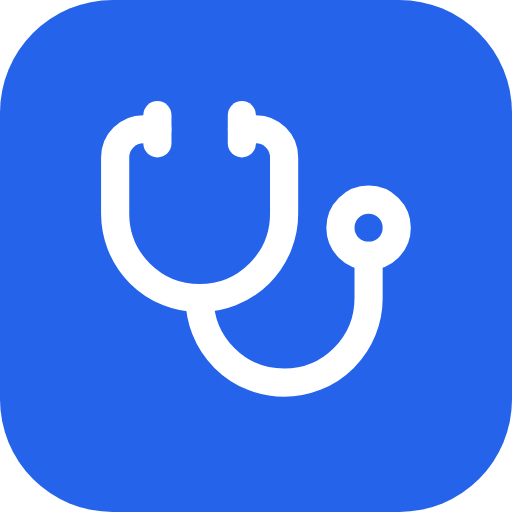
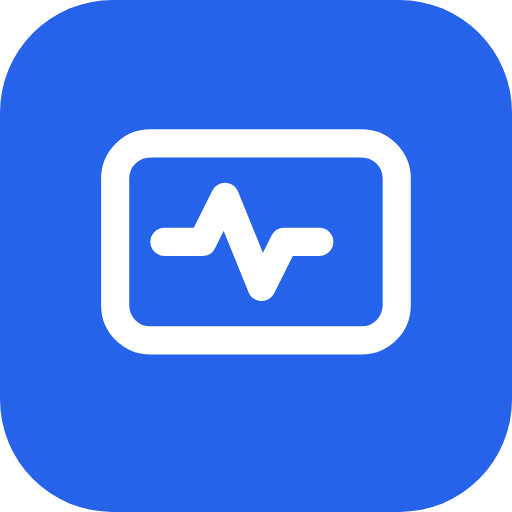
feat: rename the app to Biomedic and give it its own mark
"MediTrack" was the last English thing left in an otherwise Romanian app.
Biomedic is the word the people who keep this equipment alive already use —
"inginer biomedical", "serviciul biomedical" — so it needs no explaining in a
hospital.

The stethoscope went with it. It said "medicine", which is only half the
story: this app is about the machines, not the patients. The mark is now a
device screen with a pulse line across it, drawn from two shapes so it still
reads at 16px in a browser tab. It lives in one component used by the sidebar,
the login screen, the standalone device view and the loading screen, and the
PWA icons are generated from the same geometry.

Renamed everywhere it is read: tab title, manifest, exported workbooks and
their headers, the printable inventory report, QR label sheets, the scanner
captions and the SQL script headers.

Deliberately NOT renamed: the meditrack_* storage keys and the MediTrackDB
database name. Changing those would open a fresh, empty database on every
phone and sign everyone out — a rename is not worth losing the data over.

Claude-Session: https://claude.ai/code/session_01ApLve1RojwZeV1BmfyeSQ6

Changed region(s): [[0.1875, 0.1875, 0.8125, 0.7812]]

diff --git a/App.tsx b/App.tsx
@@ -1,6 +1,6 @@
 
 import React, { useState, useEffect, useMemo, useCallback, useRef, Suspense, lazy } from 'react';
-import { LayoutDashboard, List, Stethoscope, Menu, X, ShieldCheck, Loader2, CheckSquare, Settings as SettingsIcon, CalendarRange, RefreshCw, Cloud, CloudOff, Database, AlertCircle, Zap, QrCode, ScanLine, Wallet, Search, LogOut, User, Plus, Sun, Moon } from 'lucide-react';
+import { LayoutDashboard, List, Menu, X, ShieldCheck, Loader2, CheckSquare, Settings as SettingsIcon, CalendarRange, RefreshCw, Cloud, CloudOff, Database, AlertCircle, Zap, QrCode, ScanLine, Wallet, Search, LogOut, User, Plus, Sun, Moon } from 'lucide-react';
 
 const importDashboard = () => import('./components/Dashboard');
 const importDeviceList = () => import('./components/DeviceList');
@@ -55,6 +55,7 @@ import { getInitialTheme, applyTheme, Theme } from './services/themeService';
 import { mergeDeviceRecords, buildUploadSet } from './services/syncMerge';
 import { buildPath, uploadDataUrl } from './services/fileStorage';
 import LoginScreen from './components/LoginScreen';
+import { LogoTile, LogoMark } from './components/Logo';
 
 const VIEW_LABELS: Record<string, string> = {
   DASHBOARD: 'Panou',
@@ -936,10 +937,10 @@ const App: React.FC = () => {
             <div className="flex flex-col items-center justify-center h-full space-y-6 animate-fade-in">
               <div className="relative">
                  <div className="w-24 h-24 border-4 border-slate-100 border-t-blue-600 rounded-full animate-spin" />
-                 <Stethoscope className="w-8 h-8 text-blue-600 absolute top-1/2 left-1/2 -translate-x-1/2 -translate-y-1/2" />
+                 <LogoMark className="w-8 h-8 text-blue-600 absolute top-1/2 left-1/2 -translate-x-1/2 -translate-y-1/2" />
               </div>
               <div className="text-center">
-                <p className="text-xs font-black uppercase tracking-[0.2em] text-slate-900">MediTrack OS</p>
+                <p className="text-xs font-black uppercase tracking-[0.2em] text-slate-900">Biomedic</p>
                 <p className="text-[10px] font-bold text-slate-400 uppercase tracking-widest mt-2">Se initializeaza registrul...</p>
               </div>
             </div>
@@ -1107,11 +1108,9 @@ const AppSidebar = React.memo(({ isSidebarOpen, view, setView, setSidebarOpen, s
     <div className="h-full flex flex-col relative">
       <div className="absolute top-0 right-0 w-1 h-full bg-slate-50" />
       <div className="p-6 lg:p-8 flex items-center gap-4 border-b border-slate-100 bg-white">
-        <div className="bg-slate-900 p-2.5 rounded-xl shadow-xl shadow-slate-900/10 ring-1 ring-white/20 shrink-0">
-          <Stethoscope className="w-6 h-6 text-blue-400" />
-        </div>
+        <LogoTile className="p-2.5 rounded-xl shrink-0" />
         <div className="min-w-0">
-          <h1 className="text-lg font-black tracking-tight text-slate-900 uppercase leading-none">MediTrack</h1>
+          <h1 className="text-lg font-black tracking-tight text-slate-900 uppercase leading-none">Biomedic</h1>
           {/* The close button takes this room on phones, and the subtitle
               wrapped to two lines rather than fitting beside it */}
           <p className="hidden lg:block text-[10px] font-bold text-slate-400 uppercase tracking-[0.08em] leading-relaxed mt-1.5">Registru echipamente medicale</p>

diff --git a/components/DeviceList.tsx b/components/DeviceList.tsx
@@ -50,7 +50,7 @@ const listState = {
 const exportToExcel = async (devices: MedicalDevice[]) => {
   const ExcelJS = (await import('exceljs')).default;
   const wb = new ExcelJS.Workbook();
-  wb.creator = 'MediTrack';
+  wb.creator = 'Biomedic';
   wb.created = new Date();
 
   const TOTAL_COLS = 14;
@@ -88,7 +88,7 @@ const exportToExcel = async (devices: MedicalDevice[]) => {
   ];
 
   // Title row
-  const titleRow = ws.addRow(['MEDITRACK — RAPORT INVENTAR DISPOZITIVE', ...Array(TOTAL_COLS - 1).fill('')]);
+  const titleRow = ws.addRow(['BIOMEDIC — RAPORT INVENTAR DISPOZITIVE', ...Array(TOTAL_COLS - 1).fill('')]);
   ws.mergeCells(1, 1, 1, TOTAL_COLS);
   titleRow.height = 42;
   titleRow.getCell(1).style = {
@@ -259,7 +259,7 @@ const exportToExcel = async (devices: MedicalDevice[]) => {
     };
   };
 
-  addSectionTitle('MEDITRACK — SUMAR RAPORT');
+  addSectionTitle('BIOMEDIC — SUMAR RAPORT');
   wsSummary.addRow([]);
   addSummaryRow('Generat', new Date().toLocaleString());
   addSummaryRow('Total dispozitive', devices.length, true);
@@ -287,7 +287,7 @@ const exportToExcel = async (devices: MedicalDevice[]) => {
   const url = URL.createObjectURL(blob);
   const a = document.createElement('a');
   a.href = url;
-  a.download = `MediTrack_Report_${new Date().toISOString().split('T')[0]}.xlsx`;
+  a.download = `Biomedic_Raport_${new Date().toISOString().split('T')[0]}.xlsx`;
   a.click();
   URL.revokeObjectURL(url);
 };
@@ -314,7 +314,7 @@ const importFromExcel = (
       // Find the header row: look for a row containing "Device Name" (legacy) or "Denumire echipament"
       const headerRowIdx = rows.findIndex(r => r.some((c: any) => ['Device Name', 'Denumire echipament'].includes(String(c).trim())));
       if (headerRowIdx === -1) {
-        onDone([], { added: 0, updated: 0, skipped: 0, errors: ['Nu am gasit randul de antet. Asigurati-va ca importati un export Excel MediTrack.'] });
+        onDone([], { added: 0, updated: 0, skipped: 0, errors: ['Nu am gasit randul de antet. Asigurati-va ca importati un export Excel Biomedic.'] });
         return;
       }
 
@@ -426,7 +426,7 @@ const exportToPDF = (devices: MedicalDevice[]) => {
 <html lang="en">
 <head>
   <meta charset="UTF-8" />
-  <title>MediTrack - Raport Dispozitive</title>
+  <title>Biomedic - Raport Dispozitive</title>
   <style>
     * { box-sizing: border-box; margin: 0; padding: 0; }
     body { font-family: 'Helvetica Neue', Arial, sans-serif; font-size: 11px; color: #1e293b; background: #fff; padding: 24px; }
@@ -459,7 +459,7 @@ const exportToPDF = (devices: MedicalDevice[]) => {
 <body>
   <div class="header">
     <div class="header-left">
-      <h1>MediTrack &mdash; Raport Inventar Dispozitive</h1>
+      <h1>Biomedic &mdash; Raport Inventar Dispozitive</h1>
       <p>Sistem de management echipamente medicale &bull; Inginerie biomedicala</p>
     </div>
     <div class="header-right">
@@ -493,7 +493,7 @@ const exportToPDF = (devices: MedicalDevice[]) => {
   </table>
 
   <div class="footer">
-    <span>MediTrack &mdash; Registru Echipamente &mdash; Confidential</span>
+    <span>Biomedic &mdash; Registru Echipamente &mdash; Confidential</span>
     <span>Pagina <span class="pageNumber"></span></span>
   </div>
 

diff --git a/components/DeviceDetail.tsx b/components/DeviceDetail.tsx
@@ -5,10 +5,11 @@ import Portal from './Portal';
 import { saveFileAs } from '../services/fileService';
 import { buildPath, uploadDataUrl, uploadFile, removeFile, resolveSource } from '../services/fileStorage';
 import { getAppBaseUrl, getDeviceUrl } from '../services/appUrl';
+import { LogoTile } from './Logo';
 import {
   Activity, Box, QrCode, Trash2, X, Edit2, Plus, BookOpen,
   Info, CheckSquare, Loader2, Check, ChevronDown, Clock,
-  ShieldAlert, Cpu, Wrench, CheckCircle2, Fingerprint, Save, ArrowLeft, Camera, RotateCcw, FileText, Upload, DownloadCloud, Eye, Building2, Tag, Layers, Download, Stethoscope, Calendar, Printer, Wallet, ShieldCheck, Receipt
+  ShieldAlert, Cpu, Wrench, CheckCircle2, Fingerprint, Save, ArrowLeft, Camera, RotateCcw, FileText, Upload, DownloadCloud, Eye, Building2, Tag, Layers, Download, Calendar, Printer, Wallet, ShieldCheck, Receipt
 } from 'lucide-react';
 const LazyQRCode = React.lazy(() => import('qrcode.react').then(m => ({ default: m.QRCodeCanvas })));
 const CameraDocCapture = React.lazy(() => import('./CameraDocCapture'));
@@ -895,8 +896,8 @@ const DeviceDetail: React.FC<DeviceDetailProps> = ({ device, tasks, allDevices =
       {isStandalone && (
         <div className="p-6 sm:p-8 bg-slate-900 text-white flex flex-col items-center gap-4 text-center">
            <div className="flex items-center gap-3">
-              <div className="bg-blue-600 p-2 rounded-lg"><Stethoscope className="w-5 h-5 text-white" /></div>
-              <h1 className="text-lg font-black tracking-tight text-white uppercase">MediTrack</h1>
+              <LogoTile className="p-2 rounded-lg" markClassName="w-5 h-5" />
+              <h1 className="text-lg font-black tracking-tight text-white uppercase">Biomedic</h1>
            </div>
            <p className="text-xs text-slate-400 font-medium max-w-xs">
               Aceasta este o vizualizare individuala a dispozitivului. Pentru administrarea intregului parc de echipamente, accesati aplicatia principala.

diff --git a/components/LoginScreen.tsx b/components/LoginScreen.tsx
@@ -1,12 +1,13 @@
 
 import React, { useState, useCallback } from 'react';
-import { Stethoscope, Lock, Delete, Mail, KeyRound, Loader2, UserPlus, ArrowLeft, ShieldAlert, LogOut, Terminal, Copy, Check, X } from 'lucide-react';
+import { Lock, Delete, Mail, KeyRound, Loader2, UserPlus, ArrowLeft, ShieldAlert, LogOut, Terminal, Copy, Check, X } from 'lucide-react';
 import { AppUser } from '../types';
 import {
   signIn, signUp, signOut,
   hasDeviceLock, setDeviceLock, verifyDeviceLock,
 } from '../services/authService';
 import { SECURITY_SQL } from '../services/authSql';
+import { LogoTile } from './Logo';
 
 interface LoginScreenProps {
   onLogin: (user: AppUser) => void;
@@ -20,11 +21,9 @@ const Shell: React.FC<{ children: React.ReactNode }> = ({ children }) => (
   <div className="theme-static fixed inset-0 bg-slate-950 flex items-center justify-center p-4 z-[900] overflow-y-auto">
     <div className="w-full max-w-sm space-y-8 animate-slide-up py-8">
       <div className="flex flex-col items-center gap-4">
-        <div className="bg-blue-600 p-4 rounded-3xl shadow-2xl shadow-blue-600/30">
-          <Stethoscope className="w-10 h-10 text-white" />
-        </div>
+        <LogoTile className="p-4 rounded-3xl shadow-2xl shadow-blue-600/30" markClassName="w-10 h-10" />
         <div className="text-center">
-          <h1 className="text-2xl font-black tracking-tight text-white uppercase">MediTrack</h1>
+          <h1 className="text-2xl font-black tracking-tight text-white uppercase">Biomedic</h1>
           <p className="text-[11px] font-bold text-white/40 tracking-[0.2em] mt-1">Management echipamente medicale</p>
         </div>
       </div>

diff --git a/components/MaintenancePlanner.tsx b/components/MaintenancePlanner.tsx
@@ -174,7 +174,7 @@ const MaintenancePlanner: React.FC<MaintenancePlannerProps> = ({ devices, onAppl
 
     // 2. Construct Aesthetic AOA (Array of Arrays) with detailed summary
     const aoa = [
-      ['MEDITRACK - SISTEM DE MANAGEMENT AL DISPOZITIVELOR MEDICALE'],
+      ['BIOMEDIC - SISTEM DE MANAGEMENT AL DISPOZITIVELOR MEDICALE'],
       ['PROGRAM DE MENTENANTA SI SERVICE'],
       [''],
       ['SUMAR'],
@@ -190,7 +190,7 @@ const MaintenancePlanner: React.FC<MaintenancePlannerProps> = ({ devices, onAppl
       ['--- SFARSITUL RAPORTULUI DE SERVICE ---'],
       [''],
       ['NOTA DE CONFIDENTIALITATE: Acest document contine date despre dispozitive medicale. Accesul este restrictionat personalului autorizat.'],
-      ['MediTrack v2.5 | Date proprietare infrastructura clinica']
+      ['Biomedic | Date proprietare infrastructura clinica']
     ];
 
     try {
@@ -230,7 +230,7 @@ const MaintenancePlanner: React.FC<MaintenancePlannerProps> = ({ devices, onAppl
       XLSX.utils.book_append_sheet(workbook, worksheet, "Raport");
       
       const fileDate = now.toISOString().split('T')[0];
-      XLSX.writeFile(workbook, `MediTrack_Raport_Echipamente_${fileDate}.xlsx`);
+      XLSX.writeFile(workbook, `Biomedic_Raport_Echipamente_${fileDate}.xlsx`);
     } catch (err) {
       console.error("Export error:", err);
       alert("Generarea raportului a esuat. Verificati daca pop-up-urile sunt permise in browser.");

diff --git a/components/Logo.tsx b/components/Logo.tsx
@@ -1,0 +1,38 @@
+import React from 'react';
+
+/**
+ * The mark: a device screen with a pulse line across it.
+ *
+ * A stethoscope says "medicine", which is only half the story — this app is
+ * about the machines, not the patients. A monitor with a trace says "medical
+ * equipment, watched", which is exactly the job. Drawn from two shapes so it
+ * still reads at 16px in a browser tab.
+ */
+export const LogoMark: React.FC<{ className?: string }> = ({ className = 'w-6 h-6' }) => (
+  <svg
+    viewBox="0 0 24 24"
+    fill="none"
+    stroke="currentColor"
+    strokeWidth={2}
+    strokeLinecap="round"
+    strokeLinejoin="round"
+    className={className}
+    aria-hidden="true"
+  >
+    <rect x="2" y="4" width="20" height="14" rx="2.5" />
+    <path d="M5.5 11h2.7l1.6-3.2 2.6 6.4 1.6-3.2h2.5" />
+  </svg>
+);
+
+/** The mark in its blue tile, as it appears in the sidebar and on the login screen. */
+export const LogoTile: React.FC<{ className?: string; markClassName?: string }> = ({
+  className = 'p-2.5 rounded-xl',
+  markClassName = 'w-6 h-6',
+}) => (
+  <div className={`bg-blue-600 text-white shadow-xl shadow-blue-600/20 ${className}`}>
+    <LogoMark className={markClassName} />
+  </div>
+);
+
+export const APP_NAME = 'Biomedic';
+export const APP_TAGLINE = 'Registru echipamente medicale';

diff --git a/components/QRScanner.tsx b/components/QRScanner.tsx
@@ -97,7 +97,7 @@ const QRScanner: React.FC<QRScannerProps> = ({ onScan, onClose }) => {
           let id: string | null = null;
 
           try {
-            // Normal case: a MediTrack deep link
+            // Normal case: a Biomedic deep link
             const url = new URL(raw);
             id = url.searchParams.get('id');
           } catch {
@@ -140,7 +140,7 @@ const QRScanner: React.FC<QRScannerProps> = ({ onScan, onClose }) => {
           </div>
           <div>
             <p className="text-white font-black text-sm uppercase tracking-widest">Scaneaza QR Dispozitiv</p>
-            <p className="text-white/40 text-[10px] font-bold uppercase tracking-widest">MediTrack Scanner</p>
+            <p className="text-white/40 text-[10px] font-bold uppercase tracking-widest">Scanare Biomedic</p>
           </div>
         </div>
         <button onClick={() => { stopCamera(); onClose(); }} className="p-2.5 bg-white/10 hover:bg-white/20 text-white rounded-xl transition">

diff --git a/components/DocumentScanner.tsx b/components/DocumentScanner.tsx
@@ -453,7 +453,7 @@ const DocumentScanner: React.FC<DocumentScannerProps> = ({ devices, onSave, onCl
           <div className="p-2 bg-blue-600 rounded-xl"><ScanLine className="w-5 h-5 text-white" /></div>
           <div>
             <p className="text-white font-black text-sm uppercase tracking-widest">Scanner Documente</p>
-            <p className="text-white/40 text-[10px] font-bold uppercase tracking-widest">MediTrack · OCR Engine</p>
+            <p className="text-white/40 text-[10px] font-bold uppercase tracking-widest">Biomedic · Recunoastere text</p>
           </div>
         </div>
         <button onClick={() => { stopCamera(); onClose(); }} className="p-2.5 bg-white/10 hover:bg-white/20 text-white rounded-xl transition">

diff --git a/components/ErrorBoundary.tsx b/components/ErrorBoundary.tsx
@@ -28,14 +28,14 @@ class ErrorBoundary extends React.Component<{ children: React.ReactNode }, State
   }
 
   componentDidCatch(error: Error, info: React.ErrorInfo) {
-    console.error('[MediTrack] Eroare neasteptata:', error, info);
+    console.error('[Biomedic] Eroare neasteptata:', error, info);
     this.setState({ info: info.componentStack || '' });
   }
 
   private report = () => {
     const { error, info } = this.state;
     const text = [
-      `MediTrack — raport eroare`,
+      `Biomedic — raport eroare`,
       `Versiune: ${typeof __BUILD_ID__ !== 'undefined' ? __BUILD_ID__ : 'necunoscuta'}`,
       `Adresa: ${window.location.href}`,
       `Browser: ${navigator.userAgent}`,

diff --git a/components/QRLabelSheet.tsx b/components/QRLabelSheet.tsx
@@ -45,7 +45,7 @@ const QRLabelSheet: React.FC<QRLabelSheetProps> = ({ devices: allDevices, onClos
 
     const win = window.open('', '_blank');
     if (!win) { setIsPrinting(false); alert('Browserul a blocat fereastra de printare. Permite pop-up-urile si incearca din nou.'); return; }
-    win.document.write(`<!DOCTYPE html><html><head><title>Etichete QR MediTrack</title>
+    win.document.write(`<!DOCTYPE html><html><head><title>Etichete QR Biomedic</title>
       <style>
         * { margin: 0; padding: 0; box-sizing: border-box; }
         body { font-family: system-ui, sans-serif; padding: 8mm; }

diff --git a/vite.config.ts b/vite.config.ts
@@ -29,8 +29,8 @@ export default defineConfig(({ mode }) => {
           registerType: 'prompt',
           includeAssets: ['apple-touch-icon.png', 'favicon-64.png'],
           manifest: {
-            name: 'MediTrack — Management echipamente medicale',
-            short_name: 'MediTrack',
+            name: 'Biomedic — Registru echipamente medicale',
+            short_name: 'Biomedic',
             description: 'Inventar, mentenanta si documente pentru aparatura medicala.',
             lang: 'ro',
             start_url: '/meddevice-track/',

diff --git a/components/Settings.tsx b/components/Settings.tsx
@@ -194,7 +194,7 @@ const Settings: React.FC<SettingsProps> = ({ devices, onImport, auditLog = [], c
   }, []);
 
 
-  const SQL_FIX = `-- MEDITRACK — SCHEMA + MIGRARE (se poate rula de mai multe ori, in siguranta)
+  const SQL_FIX = `-- BIOMEDIC — SCHEMA + MIGRARE (se poate rula de mai multe ori, in siguranta)
 -- 1. Deschide Supabase Dashboard -> SQL Editor
 -- 2. Lipeste tot acest script si apasa RUN
 --
